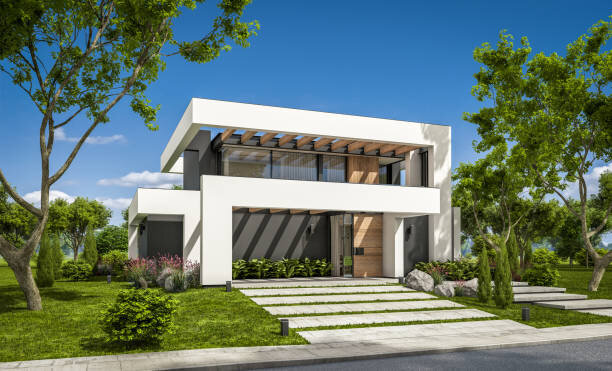
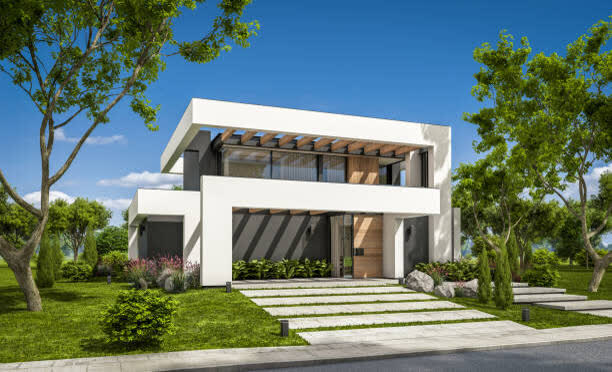
Anúncio da casa fluido: fotos no tamanho do celular, prévia borrada e pré-carga
- Fotos de public/casas reduzidas para 1080 px e servidas direto
  (unoptimized): o otimizador de imagens da Vercel demorava na primeira
  vez de cada foto e tamanho.
- Prévia borrada (16 px, lib/game/photo-blur.ts) enquanto a foto carrega,
  e fundo neutro no lugar da cor do bairro (a tela vermelha).
- Galeria monta a capa e as vizinhas ao abrir e todas no primeiro toque;
  as fotos ficam empilhadas e trocam com um fade, sem recarregar.
- A miniatura das 3 opções usa o mesmo arquivo da capa, que já abre do
  cache.

Claude-Session: https://claude.ai/code/session_017x33phUJiS169BAouLAq1A

diff --git a/lib/game/photo-blur.ts b/lib/game/photo-blur.ts
@@ -1,0 +1,14 @@
+// Gerado a partir das fotos de public/casas: prévia borrada (16 px) mostrada enquanto a foto carrega.
+export const PHOTO_BLUR: Record<string, string> = {
[11 lines of base64/hex data omitted]
+};

diff --git a/components/HouseSheet.tsx b/components/HouseSheet.tsx
@@ -7,6 +7,7 @@ import { createPortal } from 'react-dom';
 import { GROUPS, SPACES } from '@/lib/game/data';
 import { money } from '@/lib/game/format';
 import { houseListing } from '@/lib/game/listings';
+import { PHOTO_BLUR } from '@/lib/game/photo-blur';
 import { houseMedia, housePhotos } from '@/lib/game/photos';
 import { buildPrice, tierName, tierRents } from '@/lib/game/rules';
 import type { GameState, TierId } from '@/lib/game/types';
@@ -15,6 +16,9 @@ import { HoodPills } from './ui';
 
 const LABELS = ['Terreno', '1 casa', '2 casas', '3 casas', '4 casas', 'Hotel'];
 const groupColor = (g: keyof typeof GROUPS) => `var(${GROUPS[g].c})`;
+// As fotos já ficam no tamanho do celular em public/casas: servidas direto, sem passar pelo otimizador de imagens
+// (que demora na primeira vez de cada tamanho), com a prévia borrada enquanto carregam.
+const photoProps = (src: string) => ({ unoptimized: true, ...(PHOTO_BLUR[src] ? { placeholder: 'blur' as const, blurDataURL: PHOTO_BLUR[src] } : {}) });
 
 export interface SheetAction {
   label: string;
@@ -31,7 +35,7 @@ export function HouseThumb({ i, tier, size = 104 }: { i: number; tier: TierId; s
   if (!cover) return <HouseArt kind={houseListing(i, tier).kind} tier={tier} color={groupColor(s.group)} size={size} />;
   return (
     <span className="house-thumb" style={{ width: size, height: (size * 80) / 120 }}>
-      <Image src={cover} alt={`Foto da casa ${tierName(tier)}`} fill sizes={`${size}px`} style={{ objectFit: 'cover', objectPosition: '50% 55%' }} />
+      <Image src={cover} {...photoProps(cover)} alt={`Foto da casa ${tierName(tier)}`} fill sizes={`${size}px`} style={{ objectFit: 'cover', objectPosition: '50% 55%' }} />
     </span>
   );
 }
@@ -44,10 +48,15 @@ export function HouseSheet({ state, i, tier, houses = 0, action, onClose }: { st
   const n = photos.length + (media?.video ? 1 : 0);
   const [k, setK] = useState(0);
   const onVideo = !!media?.video && k === photos.length;
+  // Ao abrir, monta a capa e as vizinhas; no primeiro toque para passar, monta todas (já ficam carregadas e a troca
+  // é instantânea).
+  const [all, setAll] = useState(false);
+  const mounted = (j: number) => all || j === 0 || j === 1 || j === photos.length - 1;
   const touch = useRef<number | null>(null);
   useEffect(() => {
     const onKey = (e: KeyboardEvent) => {
       if (e.key === 'Escape') onClose();
+      if (e.key === 'ArrowRight' || e.key === 'ArrowLeft') setAll(true);
       if (e.key === 'ArrowRight') setK((x) => (x + 1) % Math.max(1, n));
       if (e.key === 'ArrowLeft') setK((x) => (x - 1 + n) % Math.max(1, n));
     };
@@ -57,7 +66,10 @@ export function HouseSheet({ state, i, tier, houses = 0, action, onClose }: { st
   if (s.type !== 'street') return null;
   const l = houseListing(i, tier);
   const rents = tierRents(state, i, tier);
-  const go = (d: number) => setK((x) => (x + d + n) % n);
+  const go = (d: number) => {
+    setAll(true);
+    setK((x) => (x + d + n) % n);
+  };
   const facts: [string, string][] = [
     ['Área', `${l.area} m²`],
     ['Quartos', String(l.rooms)],
@@ -71,7 +83,7 @@ export function HouseSheet({ state, i, tier, houses = 0, action, onClose }: { st
     <div className="house-sheet" role="dialog" aria-modal="true" aria-label={`Anúncio: ${l.title}`} data-testid="house-sheet">
       <div
         className="hs-photo"
-        style={{ background: groupColor(s.group) }}
+        style={{ background: photos.length ? '#1d2126' : groupColor(s.group) }}
         onTouchStart={(e) => (touch.current = e.touches[0].clientX)}
         onTouchEnd={(e) => {
           if (touch.current === null || n < 2) return;
@@ -94,8 +106,26 @@ export function HouseSheet({ state, i, tier, houses = 0, action, onClose }: { st
             aria-label={`Tour em vídeo: ${l.title}`}
             data-testid="hs-video"
           />
-        ) : photos.length ? (
-          <Image key={photos[k]} src={photos[k]} alt={`Foto ${k + 1} de ${photos.length}: ${l.title}`} fill sizes="(max-width: 600px) 100vw, 600px" preload style={{ objectFit: 'cover', objectPosition: '50% 55%' }} data-testid="hs-img" />
+        ) : null}
+        {photos.length ? (
+          photos.map((src, j) =>
+            mounted(j) ? (
+              <Image
+                key={src}
+                src={src}
+                {...photoProps(src)}
+                alt={`Foto ${j + 1} de ${photos.length}: ${l.title}`}
+                fill
+                sizes="(max-width: 600px) 100vw, 600px"
+                loading="eager"
+                fetchPriority={j === k ? 'high' : 'low'}
+                className={`hs-slide${j === k && !onVideo ? ' on' : ''}`}
+                style={{ objectFit: 'cover', objectPosition: '50% 55%' }}
+                aria-hidden={j !== k || onVideo}
+                data-testid={j === k ? 'hs-img' : undefined}
+              />
+            ) : null,
+          )
         ) : (
           <HouseArt kind={l.kind} tier={tier} color={groupColor(s.group)} size={300} />
         )}

diff --git a/app/globals.css b/app/globals.css
@@ -345,7 +345,10 @@ a{color:inherit}
 .hs-dots i.on{background:#fff}
 .hs-dots i.play{width:0;height:0;border-radius:0;background:none;border-left:7px solid rgba(255,255,255,.55);border-top:4px solid transparent;border-bottom:4px solid transparent}
 .hs-dots i.play.on{border-left-color:#fff}
-.hs-video{width:100%;height:100%;object-fit:contain;background:#000}
+.hs-video{position:absolute;inset:0;z-index:1;width:100%;height:100%;object-fit:contain;background:#000}
+.hs-slide{opacity:0;transition:opacity .2s ease}
+.hs-slide.on{opacity:1;z-index:1}
+.hs-close,.hs-arrow,.hs-tour,.hs-dots{z-index:2}
 .hs-tour{position:absolute;left:12px;top:12px;border:none;background:rgba(10,14,18,.6);color:#fff;border-radius:999px;padding:8px 12px;font:600 13px/1 var(--font-dm-sans),sans-serif;cursor:pointer}
 .hs-body{padding:16px;display:flex;flex-direction:column;gap:12px}
 .hs-title{margin:0;font-size:22px;line-height:1.2}
